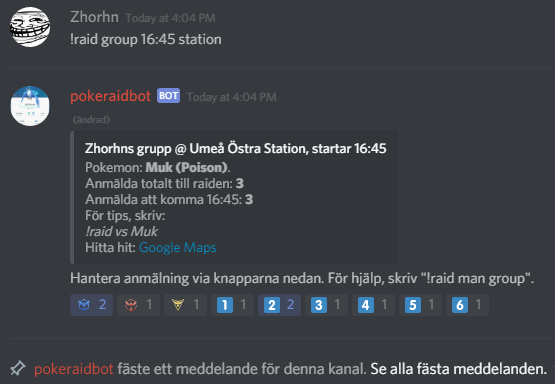
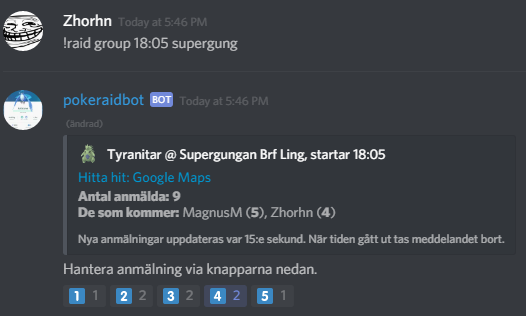
Last touches before release, text cleanup. Renewed some screenshots.

diff --git a/src/main/java/pokeraidbot/commands/NewRaidGroupCommand.java b/src/main/java/pokeraidbot/commands/NewRaidGroupCommand.java
@@ -141,9 +141,10 @@ public class NewRaidGroupCommand extends ConfigAwareCommand {
                     LOGGER.debug("Thread: " + Thread.currentThread().getId() +
                             " - Updating message with ID " + embed.getId());
                 }
+                final MessageEmbed newContent =
+                        getRaidGroupMessageEmbed(user, startAt, raidRepository.getById(raid.getId()), localeService);
                 embed.getChannel().editMessageById(embed.getId(),
-                        getRaidGroupMessageEmbed(user, startAt, raidRepository.getById(raid.getId()),
-                                localeService))
+                        newContent)
                         .queue(m -> {}, m -> {
                             emoticonSignUpMessageListener.setStartAt(null);
                         });
@@ -202,21 +203,23 @@ public class NewRaidGroupCommand extends ConfigAwareCommand {
         final String headline = localeService.getMessageFor(LocaleService.GROUP_HEADLINE,
                 localeService.getLocaleForUser(userName), raid.getPokemon().getName(), gym.getName(),
                 Utils.printTimeIfSameDay(startAt));
-        embedBuilder.setTitle(headline, Utils.getNonStaticMapUrl(gym));
-        embedBuilder.setAuthor(null, null, null);
-        StringBuilder descriptionBuilder = new StringBuilder();
+        embedBuilder.setTitle("Hitta hit: Google Maps", Utils.getNonStaticMapUrl(gym));
+        embedBuilder.setAuthor(headline, null, Utils.getPokemonIcon(pokemon));
         final Set<SignUp> signUpsAt = raid.getSignUpsAt(startAt.toLocalTime());
         final Set<String> signUpNames = getNamesOfThoseWithSignUps(signUpsAt, false);
-        final String allSignUpNames = StringUtils.join(signUpNames, ", ");
-        descriptionBuilder.append("**Anmälda:** ").append(allSignUpNames).append("\n");
-        final LocalTime startAtTime = startAt.toLocalTime();
-        final int numberOfPeopleArrivingAt = raid.getNumberOfPeopleArrivingAt(startAtTime);
-        descriptionBuilder.append("**Summa:**");
-        descriptionBuilder.append(" **").append(numberOfPeopleArrivingAt).append("**");
-        embedBuilder.setDescription(descriptionBuilder.toString());
+        final String allSignUpNames = signUpNames.size() > 0 ? StringUtils.join(signUpNames, ", ") : "-";
+        final int numberOfPeopleArrivingAt = signUpsAt.stream().mapToInt(s -> s.getHowManyPeople()).sum();
         // todo: i18n
-        embedBuilder.setFooter("Grupp skapad av " + user.getName() +
-                ". Meddelandet uppdateras var 15:e sekund med nya anmälningar.", Utils.getPokemonIcon(pokemon));
+        final String totalSignUpsText = "**Antal anmälda:** **" + numberOfPeopleArrivingAt + "**";
+        StringBuilder descriptionBuilder = new StringBuilder();
+        descriptionBuilder.append(totalSignUpsText);
+        // todo: i18n
+        descriptionBuilder.append("\n**De som kommer:** ");
+        descriptionBuilder.append(allSignUpNames);
+        final String description = descriptionBuilder.toString();
+        embedBuilder.setDescription(description);
+        // todo: i18n
+        embedBuilder.setFooter("Nya anmälningar uppdateras var 15:e sekund. När tiden gått ut tas meddelandet bort.", null);
         messageEmbed = embedBuilder.build();
         return messageEmbed;
     }

diff --git a/src/main/java/pokeraidbot/commands/RaidStatusCommand.java b/src/main/java/pokeraidbot/commands/RaidStatusCommand.java
@@ -64,7 +64,6 @@ public class RaidStatusCommand extends ConfigAwareCommand {
         EmbedBuilder embedBuilder = new EmbedBuilder();
         embedBuilder.setAuthor(null, null, null);
         final Pokemon pokemon = raid.getPokemon();
-        embedBuilder.setImage(Utils.getPokemonIcon(pokemon));
         embedBuilder.setTitle(localeService.getMessageFor(LocaleService.RAIDSTATUS, localeForUser, gym.getName()),
                 Utils.getNonStaticMapUrl(gym));
         StringBuilder sb = new StringBuilder();
@@ -72,7 +71,7 @@ public class RaidStatusCommand extends ConfigAwareCommand {
         final String startGroupText = localeService.getMessageFor(LocaleService.START_GROUP, localeForUser);
         final String findYourWayText = localeService.getMessageFor(LocaleService.FIND_YOUR_WAY, localeForUser);
         final String raidBossText = localeService.getMessageFor(LocaleService.RAID_BOSS, localeForUser);
-        final String hintsText = localeService.getMessageFor(LocaleService.FOR_HINTS, localeForUser);
+//        final String hintsText = localeService.getMessageFor(LocaleService.FOR_HINTS, localeForUser);
         final Set<String> signUpNames = getNamesOfThoseWithSignUps(raid.getSignUps(), true);
         final String allSignUpNames = StringUtils.join(signUpNames, ", ");
 
@@ -85,10 +84,11 @@ public class RaidStatusCommand extends ConfigAwareCommand {
                 .append(":\n*!raid group ")
                 .append(printTimeIfSameDay(raid.getEndOfRaid().minusMinutes(15))).append(" ")
                 .append(gymName).append("*\n")
-                .append(raidBossText).append(" **").append(pokemon).append("**\n").append(hintsText)
-                .append(" *!raid vs ").append(pokemon.getName()).append("*");
+                .append(raidBossText).append(" **").append(pokemon).append("** - ") //.append(hintsText)
+                .append("*!raid vs ").append(pokemon.getName()).append("*");
                 // todo: i18n
-        embedBuilder.setFooter(findYourWayText + " klicka på meddelandets titel för Google Maps-länk.", null);
+        embedBuilder.setFooter(findYourWayText + " klicka på meddelandetitel för Google Maps.",
+                Utils.getPokemonIcon(pokemon));
         embedBuilder.setDescription(sb.toString());
         final MessageEmbed messageEmbed = embedBuilder.build();
 

diff --git a/src/main/java/pokeraidbot/domain/raid/signup/EmoticonSignUpMessageListener.java b/src/main/java/pokeraidbot/domain/raid/signup/EmoticonSignUpMessageListener.java
@@ -182,7 +182,7 @@ public class EmoticonSignUpMessageListener implements EventListener {
                             .queueAfter(30, TimeUnit.MILLISECONDS);
                     userHadError = user.getName();
                 }
-                if (user != null) {
+                if (user != null && t.getMessage() != null) {
                     MessageBuilder messageBuilder = new MessageBuilder();
                     // todo: turn into message that only the target user can see
                     if (!t.getMessage().contains(user.getAsMention())) {
@@ -192,7 +192,7 @@ public class EmoticonSignUpMessageListener implements EventListener {
                     messageBuilder.append(t.getMessage());
                     guildMessageReactionEvent.getChannel().sendMessage(messageBuilder.build()).queue();
                 } else {
-                    LOGGER.warn("We have a situation where user is null! Event: " + event);
+                    LOGGER.warn("We have a situation where user or exception message is null! Event: " + event);
                 }
             }
         }
@@ -204,7 +204,7 @@ public class EmoticonSignUpMessageListener implements EventListener {
         if (LOGGER.isDebugEnabled()) {
             LOGGER.debug("Added signup for user " + user.getName() +
                     " to raid: " + changedRaid + " - mystic: " + mystic + ", instinct: " + instinct + ", valor: " +
-            valor + ", plebs: " + plebs);
+                    valor + ", plebs: " + plebs);
         }
         return changedRaid;
     }

diff --git a/src/main/java/pokeraidbot/Utils.java b/src/main/java/pokeraidbot/Utils.java
@@ -17,7 +17,10 @@ import java.time.LocalDateTime;
 import java.time.LocalTime;
 import java.time.format.DateTimeFormatter;
 import java.time.format.DateTimeParseException;
-import java.util.*;
+import java.util.Arrays;
+import java.util.Iterator;
+import java.util.LinkedHashSet;
+import java.util.Set;
 
 public class Utils {
     public static final DateTimeFormatter timeParseFormatter = DateTimeFormatter.ofPattern("HH[:][.]mm");
@@ -243,15 +246,15 @@ public class Utils {
     }
 
     public static Set<String> getNamesOfThoseWithSignUps(Set<SignUp> signUpsAt, boolean includeEta) {
-        Set<String> signUpNames;
-        signUpNames = new HashSet<>();
+        final Set<String> signUpNames;
+        signUpNames = new LinkedHashSet<>();
         for (SignUp signUp : signUpsAt) {
             if (signUp.getHowManyPeople() > 0) {
                 String text = signUp.getUserName() + " (**" + signUp.getHowManyPeople();
                 if (includeEta) {
-                   text += ", ETA " + printTime(signUp.getArrivalTime());
+                   text = text + ", ETA " + printTime(signUp.getArrivalTime());
                 }
-                text += "**)";
+                text = text + "**)";
                 signUpNames.add(text);
             }
         }

diff --git a/src/main/java/pokeraidbot/infrastructure/jpa/raid/RaidEntitySignUp.java b/src/main/java/pokeraidbot/infrastructure/jpa/raid/RaidEntitySignUp.java
@@ -1,6 +1,8 @@
 package pokeraidbot.infrastructure.jpa.raid;
 
+import net.dv8tion.jda.core.entities.User;
 import pokeraidbot.Utils;
+import pokeraidbot.domain.errors.UserMessedUpException;
 
 import javax.persistence.Column;
 import javax.persistence.Embeddable;
@@ -70,7 +72,7 @@ public class RaidEntitySignUp implements Serializable {
     public void setNumberOfPeople(int numberOfPeople) {
         if (numberOfPeople < 0 || numberOfPeople > Utils.HIGH_LIMIT_FOR_SIGNUPS) {
             // todo: i18n
-            throw new RuntimeException("Antal personer för en signup måste vara 1-20, du hade " +
+            throw new UserMessedUpException((User)null, "Antal personer för en signup måste vara 1-20, du hade " +
                     this.numberOfPeople + " men försökte sätta " + numberOfPeople + ".");
         }
         this.numberOfPeople = numberOfPeople;

diff --git a/src/main/java/pokeraidbot/domain/config/LocaleService.java b/src/main/java/pokeraidbot/domain/config/LocaleService.java
@@ -146,10 +146,9 @@ public class LocaleService {
 //                        "skriv \"!raid group {tid}\" och ange en senare tid.");
 
         i18nMessages.put(new I18nLookup(HANDLE_SIGNUP, Locale.ENGLISH),
-                "Handle sign up via the buttons below. 1-5 signs up 1-5 people. Click same button to unsign them.");
+                "Handle sign up via the buttons below.");
         i18nMessages.put(new I18nLookup(HANDLE_SIGNUP, SWEDISH),
-                "Hantera anmälning via knapparna nedan. 1-5 anmäler 1-5 personer. " +
-                        "För att avanmäla, tryck samma knapp igen.");
+                "Hantera anmälning via knapparna nedan.");
 
         i18nMessages.put(new I18nLookup(CANT_CREATE_GROUP_LATE, Locale.ENGLISH),
                 "Can't create a group to raid after raid has ended. :("
